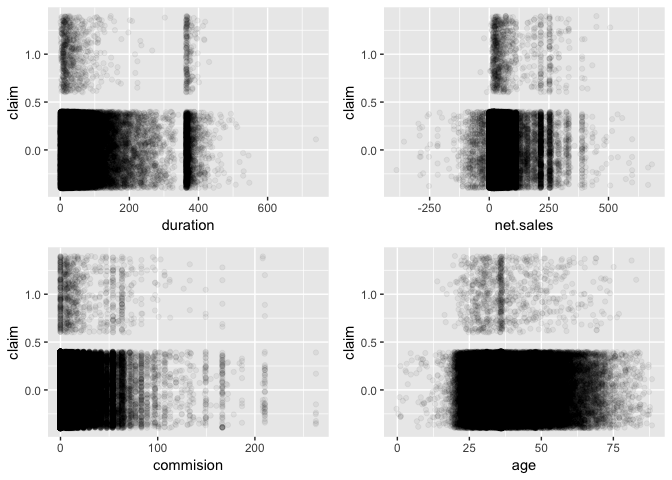
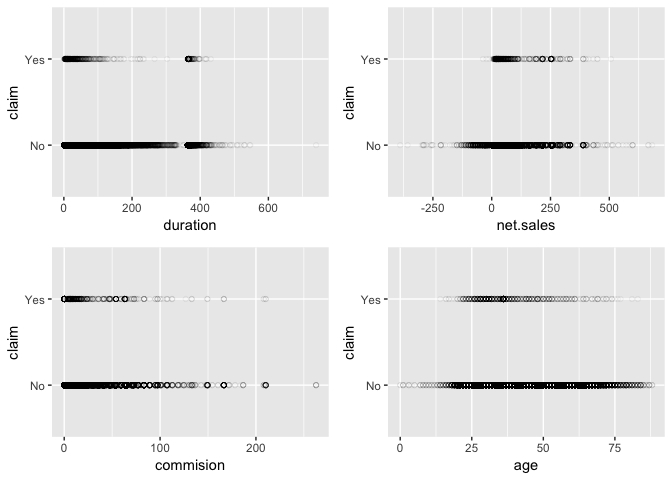
update

diff --git a/travel_insurance.md b/travel_insurance.md
@@ -3,13 +3,13 @@ Analyzing Travel Insurance
 Kah Jun Lim
 10/2/2019
 
-## Introduction
+# Introduction
 
 The purpose of this project is to perform exploratory data analysis(EDA)
 on travel insurance dataset and identify factors that might affect
 whether a claim is made.
 
-## Loading the Data and Dependencies
+# Loading the Data and Dependencies
 
 ``` r
 library(dplyr)
@@ -17,6 +17,9 @@ library(ggplot2)
 library(tidyr)
 library(scales)
 library(gridExtra)
+library(caret)
+library(rpart)
+library(rpart.plot)
 
 travel_insurance_full <- read.csv("data/travel_insurance.csv")
 head(travel_insurance_full)
@@ -49,7 +52,9 @@ colnames(travel_insurance_full) <- c("agency", "agency.type", "distribution.chan
                                      "duration", "destination", "net.sales", "commision", "gender", "age")
 ```
 
-## Exploratory Data Analysis
+# Exploratory Data Analysis
+
+## Handling Missing/Bad Data
 
 ``` r
 summary(travel_insurance_full)
@@ -117,158 +122,160 @@ the purpose of this project.
 
 ``` r
 travel_insurance <- travel_insurance_full %>%
-  filter(duration > 0 & duration < 1000 & age <= 100) %>%
-  mutate(claim = ifelse(claim == "Yes", 1, 0))
-```
-
-    ## Warning: The `printer` argument is deprecated as of rlang 0.3.0.
-    ## This warning is displayed once per session.
-
-``` r
+  filter(duration > 0 & duration < 1000 & age <= 100)
 levels(travel_insurance$gender) <- c("Unknown", "F", "M")
 ```
 
 We can now move on to look at distribution of some of the features.
 
-### Factor Variables
+## Looking Into Factor Variables
+
+### Claim
 
 ``` r
-# agency.type
-ggplot(travel_insurance, aes(x = claim, fill = agency.type)) +
+ggplot(travel_insurance, aes(x = claim)) +
+  geom_bar()
+```
+
+![](travel_insurance_files/figure-gfm/Claim%20Distribution-1.png)<!-- -->
+
+From the graph above, we see that only an extremely small number of
+policies have claims, which is what one would expect. In this case,
+claims occured can be viewed as anomalies or rare events. Moving
+forward, it is better to look at the proportion instead of the
+frequencies.
+
+### Agency Type
+
+``` r
+ggplot(travel_insurance, aes(x = agency.type, fill = claim)) +
   geom_bar(position = "fill") +
   scale_y_continuous(labels = percent_format())
 ```
 
-![](travel_insurance_files/figure-gfm/Factor%20variables-1.png)<!-- -->
+![](travel_insurance_files/figure-gfm/Agency%20Type-1.png)<!-- -->
+
+We see that policies sold by airlines are more likely to observe claim
+compared to policies sold via travel agencies.
+
+### Gender
 
 ``` r
-# distribution.channel (not useful)
-# ggplot(travel_insurance, aes(x = claim, fill = distribution.channel)) +
-#   geom_bar()
-
-# gender
-ggplot(travel_insurance, aes(x = claim, fill = gender)) +
+ggplot(travel_insurance, aes(x = gender, fill = claim)) +
   geom_bar(position = "fill") +
   scale_y_continuous(labels = percent_format())
 ```
 
-![](travel_insurance_files/figure-gfm/Factor%20variables-2.png)<!-- -->
+![](travel_insurance_files/figure-gfm/Gender-1.png)<!-- -->
+
+It is interesting that Unknown gender experienced less claims than M or
+F. One possible explanation is that the higher the chance of claims, the
+more formal the policy would be, which includes recording more
+information of the
+policyholder.
+
+### Destination
 
 ``` r
-# Helper functions to plot top n for factors with many levels
-plot_top_n <- function(df, var, n = 10, title = "") {
-  colnames(df)[colnames(df) == var] <- "var"
-  freq_by_var <- df %>%
-    group_by(var, claim = as.factor(claim)) %>%
-    summarise(freq = n()) %>%
-    spread(key = claim, value = freq, fill = 0) %>%
-    mutate(total = `0` + `1`) %>%
-    ungroup %>%
-    top_n(n = n, wt = total) %>%
-    select(-total) %>%
-    gather(key = "claim", value = "freq", `0`, `1`)
-  p <- ggplot(freq_by_var, aes(x = var, y = freq, fill = claim))
-  p1 <- p +
-    geom_bar(stat = "identity") +
-    theme(axis.text.x = element_text(angle = 45, hjust = 1)) +
-    xlab(var)
-  p2 <- p +
-    geom_bar(stat = "identity", position = "fill") +
-    scale_y_continuous(labels = percent_format()) +
-    theme(axis.text.x = element_text(angle = 45, hjust = 1)) +
-    xlab(var)
-  grid.arrange(p1, p2, ncol = 2, top = title)
-}
-
 plot_top_n(travel_insurance, "destination", title = "Top 10 Destinations")
 ```
 
-![](travel_insurance_files/figure-gfm/Factor%20variables-3.png)<!-- -->
+    ## Warning: The `printer` argument is deprecated as of rlang 0.3.0.
+    ## This warning is displayed once per session.
+
+![](travel_insurance_files/figure-gfm/Destination-1.png)<!-- -->
+
+In this dataset, the country with the most entry is Singapore, which
+also has the highest proportion of claims observed. Among the top 10
+countries in this data, US, China, and Australia also have relatively
+higher proportion of claims compared to the others.
+
+### Agency
 
 ``` r
 plot_top_n(travel_insurance, "agency", title = "Top 10 Agencies")
 ```
 
-![](travel_insurance_files/figure-gfm/Factor%20variables-4.png)<!-- -->
+![](travel_insurance_files/figure-gfm/Agency-1.png)<!-- -->
+
+The agencies with high proportion of claims observed are C2B and LWC.
+
+### Product
 
 ``` r
 plot_top_n(travel_insurance, "product.name", title = "Top 10 Products")
 ```
 
-![](travel_insurance_files/figure-gfm/Factor%20variables-5.png)<!-- -->
+![](travel_insurance_files/figure-gfm/Product-1.png)<!-- -->
 
-1.  We see that given a claim has occured, it is more likely to be from
-    airlines than from travel agency.
+Among the top 10 products in this data, Annual Silver Plan, Silver Plan,
+and Brownze Plan has the highest claims proportions.
 
-2.  For gender, although claims occur with equal proportion for Male,
-    Female and Unknown.
-
-3.  Only 5 agencies observed claims count more than 50.
-
-4.  All the companies have extremely low percentage of claims observed.
-
-### Numeric Variables
+## Numeric Variables
 
 ``` r
 p1 <- ggplot(travel_insurance, aes(x = duration, y = claim)) +
-  geom_jitter(alpha = 0.05)
+  geom_point(alpha = 0.05, shape = 1)
 p2 <- ggplot(travel_insurance, aes(x = net.sales, y = claim)) +
-  geom_jitter(alpha = 0.05)
+  geom_point(alpha = 0.05, shape = 1)
 p3 <- ggplot(travel_insurance, aes(x = commision, y = claim)) +
-  geom_jitter(alpha = 0.05)
+  geom_point(alpha = 0.05, shape = 1)
 p4 <- ggplot(travel_insurance, aes(x = age, y = claim)) +
-  geom_jitter(alpha = 0.05)
+  geom_point(alpha = 0.05, shape = 1)
 grid.arrange(p1, p2, p3, p4, ncol = 2)
 ```
 
 ![](travel_insurance_files/figure-gfm/Numeric%20variables-1.png)<!-- -->
 
-There doesn’t seem to be any obvious pattern in the four plots. Let us
-add more dimension to the scatterplots and see if we can have any new
-findings.
+There doesn’t seem to be any obvious pattern in the four plots.
+Nevertheless, the interaction between these features with each other or
+the factor variables might become useful.
+
+# Building Models
+
+## Train-Test Splitting
+
+Before we begin building models, we want to split the data into training
+set and testing
+set.
 
 ``` r
-# duration
-ggplot(travel_insurance, aes(x = duration, y = claim, color = gender)) +
-  geom_jitter(alpha = 0.5, shape = 1)
+train.index <- createDataPartition(travel_insurance$claim, p = 0.7, list = FALSE)
+train <- travel_insurance[train.index,]
+test <- travel_insurance[-train.index,]
+show_prop(travel_insurance)
 ```
 
-![](travel_insurance_files/figure-gfm/Numeric%20Variables%20by%20Factors-1.png)<!-- -->
+    ## # A tibble: 2 x 3
+    ##   claim     n   prop
+    ##   <fct> <int>  <dbl>
+    ## 1 No    61374 0.985 
+    ## 2 Yes     917 0.0147
 
 ``` r
-ggplot(travel_insurance, aes(x = duration, y = claim, color = agency.type)) +
-  geom_jitter(alpha = 0.5, shape = 1)
+show_prop(train)
 ```
 
-![](travel_insurance_files/figure-gfm/Numeric%20Variables%20by%20Factors-2.png)<!-- -->
+    ## # A tibble: 2 x 3
+    ##   claim     n   prop
+    ##   <fct> <int>  <dbl>
+    ## 1 No    42962 0.985 
+    ## 2 Yes     642 0.0147
 
 ``` r
-# age (not useful)
-# ggplot(travel_insurance, aes(x = age, y = claim, color = gender)) +
-#   geom_jitter(alpha = 0.5, shape = 1)
-# ggplot(travel_insurance, aes(x = age, y = claim, color = agency.type)) +
-#   geom_jitter(alpha = 0.5, shape = 1)
-
-# net.sales
-ggplot(travel_insurance, aes(x = net.sales, y = claim, color = gender)) +
-  geom_jitter(alpha = 0.5, shape = 1)
+show_prop(test)
 ```
 
-![](travel_insurance_files/figure-gfm/Numeric%20Variables%20by%20Factors-3.png)<!-- -->
+    ## # A tibble: 2 x 3
+    ##   claim     n   prop
+    ##   <fct> <int>  <dbl>
+    ## 1 No    18412 0.985 
+    ## 2 Yes     275 0.0147
+
+## Tree-Based Models
+
+### Simple Decision Trees
 
 ``` r
-ggplot(travel_insurance, aes(x = net.sales, y = claim, color = agency.type)) +
-  geom_jitter(alpha = 0.5, shape = 1)
+?rpart
 ```
-
-![](travel_insurance_files/figure-gfm/Numeric%20Variables%20by%20Factors-4.png)<!-- -->
-
-``` r
-# commision (not useful)
-# ggplot(travel_insurance, aes(x = commision, y = claim, color = gender)) +
-#   geom_jitter(alpha = 0.5, shape = 1)
-# ggplot(travel_insurance, aes(x = commision, y = claim, color = agency.type)) +
-#   geom_jitter(alpha = 0.5, shape = 1)
-```
-
-TODO
